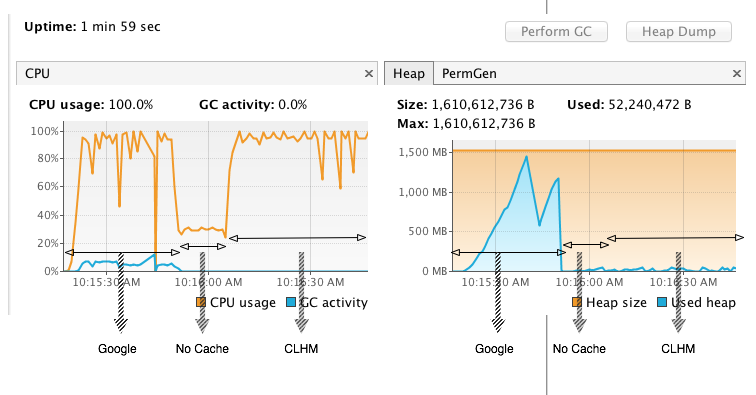
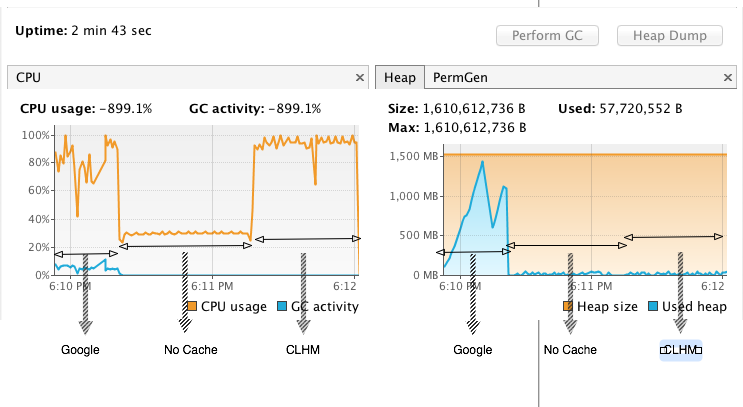
added correct through put image for patched version

diff --git a/README.md b/README.md
@@ -416,7 +416,7 @@ constant operation, resulting in an OOM exception.
 
 - Patched (1<<10) ConcurrentLinkedHashMap
 
-IMAGE MISSING
+![Through Put Collector Results, Patch](./Throughputcollector_patch.png)
 
 In order to get 64 threads run using guava, we need to use a very large heap:
 
